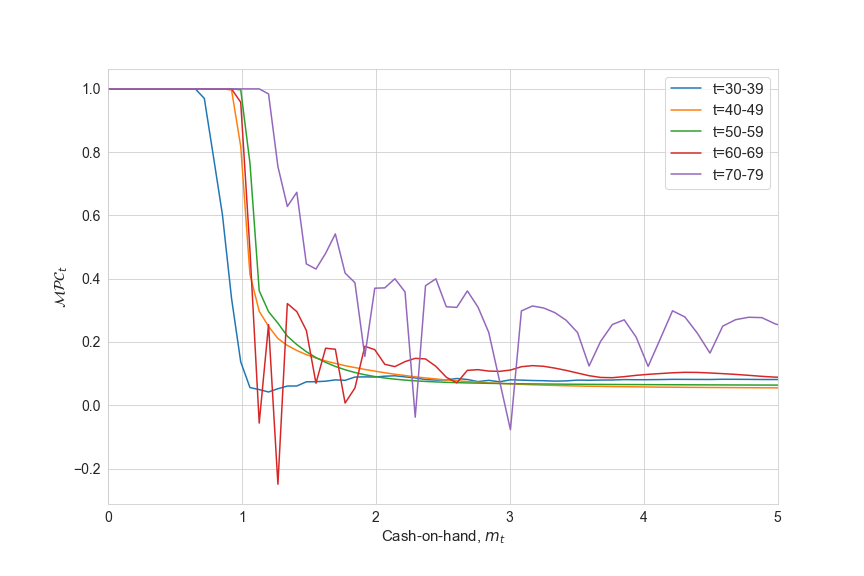
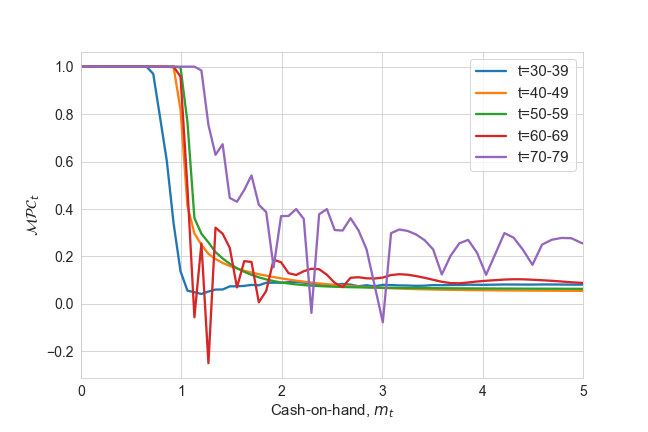
minor changes in notebook and figs

diff --git a/two_asset/figs.py b/two_asset/figs.py
@@ -76,7 +76,7 @@ def lifecycle(model,quantiles:bool=False):
         if i in [len(simvarlist)-i-1 for i in range(cols)]:
             ax.set_xlabel('age')
     plt.tight_layout()
-    plt.savefig('output/life_cycle.png')
+    plt.savefig('output/life_cycle_twoasset.png')
     plt.show()
 
 def mpc_over_cash_on_hand(model):
@@ -101,9 +101,9 @@ def mpc_over_cash_on_hand(model):
                     p_bar[t],n_bar[t],m+model.par.mpc_eps)
             mpc[t,i] = (c1[t,i]-c0[t,i])/model.par.mpc_eps
 
-    plt.figure(figsize=(12,8))
+    plt.figure(figsize=(9,6))
     for t in np.arange(5,model.par.T,10):
-       plt.plot(model.par.grid_m,np.mean(mpc[t:t+9,:],axis=0),label='t={}-{}'.format(t+model.par.Tmin,t+model.par.Tmin+9))
+       plt.plot(model.par.grid_m,np.mean(mpc[t:t+9,:],axis=0),label='t={}-{}'.format(t+model.par.Tmin,t+model.par.Tmin+9),lw=2.3)
 
     plt.xlim(0,5)
     plt.xticks(fontsize=14)

diff --git a/two_asset/TwoAssetModel.py b/two_asset/TwoAssetModel.py
@@ -482,3 +482,6 @@ class TwoAssetModelClass(ModelClass):
 
     def mpc_over_cash_on_hand(self):
         figs.mpc_over_cash_on_hand(self)
+
+    def mpc_over_life_cycle(self):
+        figs.mpc_over_cash_on_hand(self)
